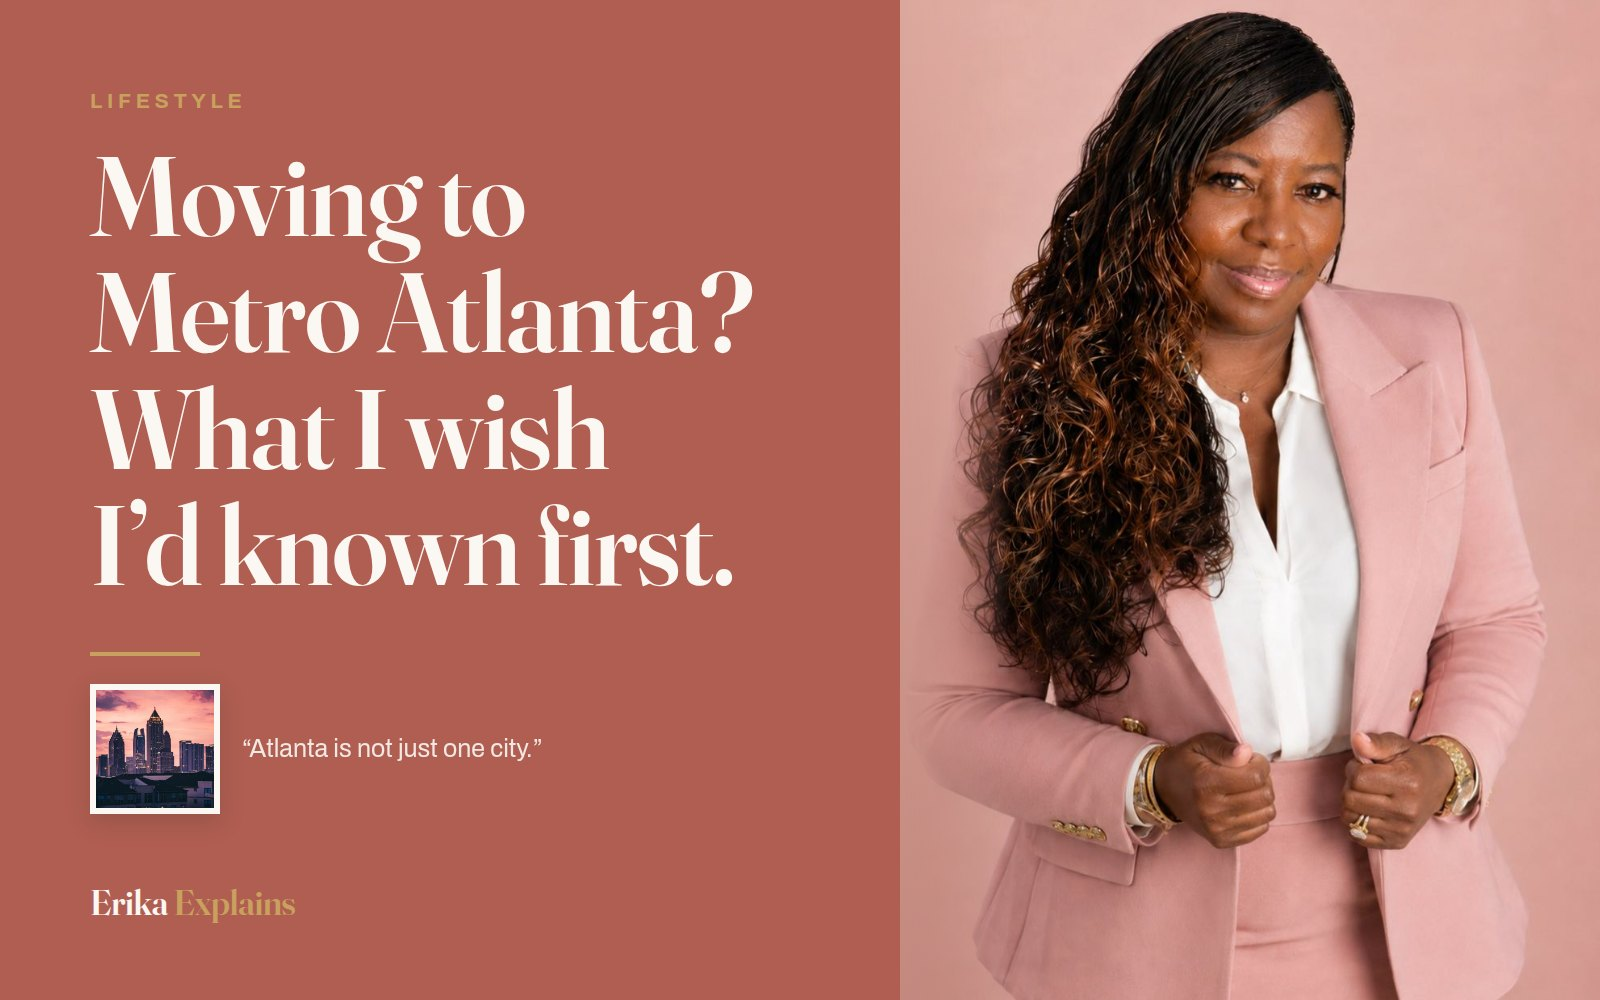
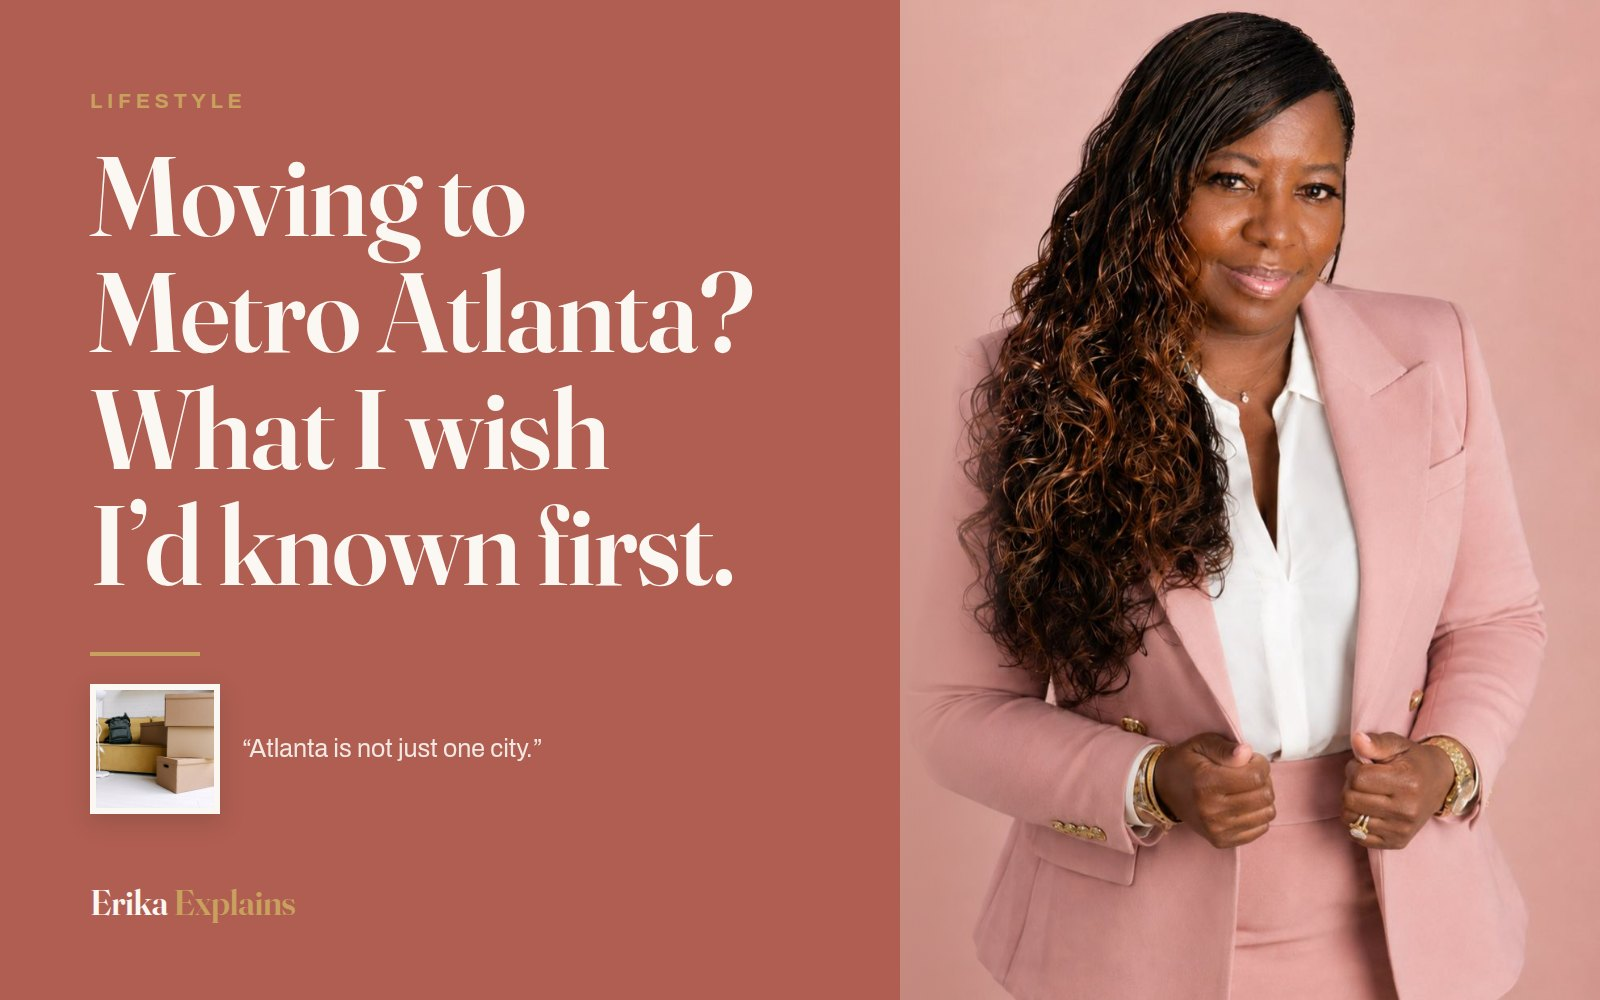
Give every article its own pictures; fail the check on any repeat
Four pictures were shared between articles (the signing photo four times, as body and
cover tile on two articles). Six new Pexels photos replace the repeats: a restaurant
kitchen and an empty commercial building for the lease article, keys for cash-is-king,
a Southern porch home and a mailbox for homestead, moving boxes for relocation. Four
covers re-rendered. check-article.mjs now fails if any picture is on two articles or a
cover tile repeats its own body picture. tools/stock-search.py makes the search one
command. CLAUDE.md step 4 no longer tells you to reuse library photos.

Claude-Session: https://claude.ai/code/session_014UEUWFVPFtasGLsNwikjqa

Changed region(s): [[0.0625, 0.682, 0.1562, 0.806]]

diff --git a/posts.php b/posts.php
@@ -41,7 +41,7 @@ return [
         'tags'           => ['commercial real estate', 'restaurant space', 'commercial lease', 'zoning', 'small business', 'Metro Atlanta'],
         'cover'          => 'assets/photos/17/leasing-a-restaurant-space-cover.jpg',
         'cover_alt'      => 'Erika K. Page beside the headline: Leasing a restaurant space? Fall in love with the deal, not the space.',
-        'cover_credit'   => 'Inset photo by <a href="https://www.pexels.com/@kampus" rel="nofollow noopener" target="_blank">Kampus Production</a> on <a href="https://www.pexels.com/" rel="nofollow noopener" target="_blank">Pexels</a>',
+        'cover_credit'   => 'Inset photo by <a href="https://www.pexels.com/@introspectivedsgn" rel="nofollow noopener" target="_blank">Erik Mclean</a> on <a href="https://www.pexels.com/" rel="nofollow noopener" target="_blank">Pexels</a>',
         'audio'          => '',
         'audio_note'     => 'A podcast episode on this topic, in Erika’s AI voice. The sources are listed at the end of the article.',
         'guide'          => '',
@@ -98,7 +98,7 @@ return [
 
 <p>Then look at the neighbors. One space we saw was three doors down from a Mexican restaurant, and in the time I waited for my client, I watched people coming in and out. That tells you people already come to that center for food &mdash; and for more than burgers and fries. Look at what is planned nearby, too; at one building in East Point, there was information posted about a redevelopment plan for the area.</p>
 
-[[img:assets/photos/17/a1-closing-table-signing.jpg|Signing paperwork at a table|Photo by <a href="https://www.pexels.com/@kampus" rel="nofollow noopener" target="_blank">Kampus Production</a> on <a href="https://www.pexels.com/" rel="nofollow noopener" target="_blank">Pexels</a>]]
+[[img:assets/photos/17/b5-restaurant-kitchen-hoods.jpg|A restaurant kitchen with the hoods, shelving and equipment already in place|Photo by <a href="https://www.pexels.com/@orlovamaria" rel="nofollow noopener" target="_blank">Maria Orlova</a> on <a href="https://www.pexels.com/" rel="nofollow noopener" target="_blank">Pexels</a>]]
 
 <h2>Cheap and affordable are not the same thing</h2>
 
@@ -171,7 +171,7 @@ HTML,
         'tags'           => ['relocating to Atlanta', 'moving to Georgia', 'Metro Atlanta', 'commute', 'school districts', 'new residents'],
         'cover'          => 'assets/photos/17/relocating-to-metro-atlanta-cover.jpg',
         'cover_alt'      => 'Erika K. Page beside the headline: Moving to Metro Atlanta? What I wish I’d known first.',
-        'cover_credit'   => 'Inset photo by <a href="https://www.pexels.com/@connorscottmcmanus/" rel="nofollow noopener" target="_blank">Connor Scott McManus</a> on <a href="https://www.pexels.com/" rel="nofollow noopener" target="_blank">Pexels</a>',
+        'cover_credit'   => 'Inset photo by <a href="https://www.pexels.com/@ivan-s" rel="nofollow noopener" target="_blank">Ivan S</a> on <a href="https://www.pexels.com/" rel="nofollow noopener" target="_blank">Pexels</a>',
         'audio'          => '',
         'audio_note'     => 'A podcast episode on this topic, in Erika’s AI voice. The sources are listed at the end of the article.',
         'guide'          => '',
@@ -291,7 +291,7 @@ HTML,
         'tags'           => ['homestead exemption', 'property taxes', 'HOME Act', 'HB 581', 'Georgia real estate', 'Metro Atlanta'],
         'cover'          => 'assets/photos/17/georgia-homestead-exemption-explained-cover.jpg',
         'cover_alt'      => 'Erika K. Page beside the headline: Georgia’s homestead exemption, explained.',
-        'cover_credit'   => 'Inset photo by <a href="https://www.pexels.com/@rdne" rel="nofollow noopener" target="_blank">RDNE Stock project</a> on <a href="https://www.pexels.com/" rel="nofollow noopener" target="_blank">Pexels</a>',
+        'cover_credit'   => 'Inset photo by <a href="https://www.pexels.com/@abstrakt-xxcellence-studios-987642" rel="nofollow noopener" target="_blank">Abstrakt Xxcellence Studios</a> on <a href="https://www.pexels.com/" rel="nofollow noopener" target="_blank">Pexels</a>',
         'audio'          => 'assets/audio/georgia-homestead-exemption-explained.mp3',
         'audio_note'     => 'A podcast episode on this topic, in Erika’s AI voice. The sources are listed at the end of the article.',
         'guide'          => '',
@@ -351,7 +351,7 @@ HTML,
 
 <p>And here is the good news: you usually only do this once. Once approved, most homestead exemptions renew automatically every year as long as you keep living in the home under the same ownership.</p>
 
-[[img:assets/photos/17/a2-suburban-home-for-sale.jpg|A suburban home with a for-sale sign in the front yard|Photo by <a href="https://pixabay.com/users/paulbr75-2938186/" rel="nofollow noopener" target="_blank">paulbr75</a> on <a href="https://pixabay.com/" rel="nofollow noopener" target="_blank">Pixabay</a>]]
+[[img:assets/photos/17/b8-southern-porch-home.jpg|A Southern bungalow with rocking chairs on the front porch|Photo by <a href="https://www.pexels.com/@curtis-adams-1694007" rel="nofollow noopener" target="_blank">Curtis Adams</a> on <a href="https://www.pexels.com/" rel="nofollow noopener" target="_blank">Pexels</a>]]
 
 <h2>The 2024 change: a cap on how fast your value can grow</h2>
 
@@ -427,7 +427,7 @@ HTML,
         'tags'           => ['cash offer', 'contingencies', 'buying a home', 'investors', 'Georgia real estate'],
         'cover'          => 'assets/photos/17/cash-is-king-if-you-really-mean-cash-cover.jpg',
         'cover_alt'      => 'Erika K. Page beside the headline: Cash is king, if you really mean cash.',
-        'cover_credit'   => 'Inset photo by <a href="https://www.pexels.com/@kampus" rel="nofollow noopener" target="_blank">Kampus Production</a> on <a href="https://www.pexels.com/" rel="nofollow noopener" target="_blank">Pexels</a>',
+        'cover_credit'   => 'Inset photo by <a href="https://www.pexels.com/@a-darmel" rel="nofollow noopener" target="_blank">Alena Darmel</a> on <a href="https://www.pexels.com/" rel="nofollow noopener" target="_blank">Pexels</a>',
         'audio'          => 'assets/audio/cash-is-king-if-you-really-mean-cash.mp3',
         'guide'          => '',
         'product'        => '',

diff --git a/tools/stock-search.py b/tools/stock-search.py
@@ -1,0 +1,44 @@
+"""Find stock photos on Pexels: search, save thumbnails, and make a numbered contact sheet.
+
+    PEXELS_KEY=... python3 -I tools/stock-search.py <scratch-dir> "<query>" [count]
+
+Then LOOK at <scratch-dir>/sheet.jpg and pick by number; results.json in the same folder
+has each photo's photographer, profile URL (for the credit) and original URL. Download
+the pick (append "?auto=compress&cs=tinysrgb&w=2400" to the original URL), crop to
+1600x1000 with ffmpeg (never upscale), register it in photos.php library 17 with its
+credit, then run php tools/build-images.php.
+
+Why it exists: for a week the blog reused the same few library photos across articles
+(one signing photo appeared four times on two articles) because there was no key and
+no quick way to look. Every article now gets its own pictures; check-article.mjs fails
+if any picture is on two articles. The key is the owner's: pass it in the environment,
+never write it to a file. Keep the scratch dir outside the repo.
+"""
+import json, os, ssl, subprocess, sys, urllib.parse, urllib.request
+out, q = sys.argv[1], sys.argv[2]; n = int(sys.argv[3]) if len(sys.argv) > 3 else 12
+os.makedirs(out, exist_ok=True)
+ctx = ssl.create_default_context(cafile="/root/.ccr/ca-bundle.crt")
+proxy = os.environ.get("HTTPS_PROXY") or os.environ.get("https_proxy")
+op = urllib.request.build_opener(urllib.request.ProxyHandler({"https": proxy} if proxy else {}), urllib.request.HTTPSHandler(context=ctx))
+req = urllib.request.Request("https://api.pexels.com/v1/search?" + urllib.parse.urlencode({"query": q, "per_page": n, "orientation": "landscape"}),
+                             headers={"Authorization": os.environ["PEXELS_KEY"], "User-Agent": "Mozilla/5.0"})
+data = json.load(op.open(req, timeout=60))
+rows = []
+for i, p in enumerate(data.get("photos", [])):
+    t = os.path.join(out, f"{i:02d}.jpg")
+    with open(t, "wb") as f:
+        f.write(op.open(urllib.request.Request(p["src"]["medium"], headers={"User-Agent": "Mozilla/5.0"}), timeout=60).read())
+    rows.append({"i": i, "id": p["id"], "w": p["width"], "h": p["height"], "by": p["photographer"], "by_url": p["photographer_url"],
+                 "page": p["url"], "alt": p.get("alt", ""), "orig": p["src"]["original"]})
+json.dump(rows, open(os.path.join(out, "results.json"), "w"), indent=1)
+for r in rows: print(f'{r["i"]:2d} {r["id"]} {r["w"]}x{r["h"]} {r["by"]} | {r["alt"][:90]}')
+# contact sheet: 4 columns, numbered
+files = [os.path.join(out, f'{r["i"]:02d}.jpg') for r in rows]
+args = []
+for f in files: args += ["-i", f]
+k = len(files); cols = 4; rows_n = (k + cols - 1) // cols
+fl = ";".join(f"[{j}:v]scale=360:240:force_original_aspect_ratio=increase,crop=360:240,drawtext=text='{j}':fontcolor=white:fontsize=36:box=1:boxcolor=black@0.6:x=8:y=8[v{j}]" for j in range(k))
+layout = "|".join(f"{(j%cols)*360}_{(j//cols)*240}" for j in range(k))
+fl += ";" + "".join(f"[v{j}]" for j in range(k)) + f"xstack=inputs={k}:layout={layout}:fill=black[out]"
+subprocess.run(["ffmpeg", "-v", "error", "-y", *args, "-filter_complex", fl, "-map", "[out]", "-q:v", "4", os.path.join(out, "sheet.jpg")], check=True)
+print("sheet:", os.path.join(out, "sheet.jpg"))

diff --git a/photos.php b/photos.php
@@ -223,6 +223,12 @@ return [
                 ['r' => 'B2', 'f' => 'assets/photos/17/b2-inspection-checklist.jpg', 'label' => 'Inspection checklist on a clipboard', 'note' => 'stock - RDNE Stock project / Pexels', 'pos' => '50 50'],
                 ['r' => 'B3', 'f' => 'assets/photos/17/b3-home-for-sale-sign.jpg', 'label' => 'Home for sale sign on a lawn', 'note' => 'stock - Thirdman / Pexels', 'pos' => '50 50'],
                 ['r' => 'B4', 'f' => 'assets/photos/17/b4-atlanta-skyline-dusk.jpg', 'label' => 'Midtown Atlanta skyline at dusk (1.6 crop)', 'note' => 'stock - Connor Scott McManus / Pexels', 'pos' => '50 50'],
+                ['r' => 'B5', 'f' => 'assets/photos/17/b5-restaurant-kitchen-hoods.jpg', 'label' => 'Restaurant kitchen with hoods and equipment in place', 'note' => 'stock - Maria Orlova / Pexels', 'pos' => '50 50'],
+                ['r' => 'B6', 'f' => 'assets/photos/17/b6-commercial-building-parking.jpg', 'label' => 'Empty commercial building with its own parking lot', 'note' => 'stock - Erik Mclean / Pexels', 'pos' => '50 50'],
+                ['r' => 'B7', 'f' => 'assets/photos/17/b7-house-keys-handover.jpg', 'label' => 'House keys handed from one person to another', 'note' => 'stock - Alena Darmel / Pexels', 'pos' => '50 50'],
+                ['r' => 'B8', 'f' => 'assets/photos/17/b8-southern-porch-home.jpg', 'label' => 'Southern bungalow with rocking chairs on the porch', 'note' => 'stock - Curtis Adams / Pexels', 'pos' => '50 50'],
+                ['r' => 'B9', 'f' => 'assets/photos/17/b9-mailbox-flag-up.jpg', 'label' => 'US mailbox with the flag up', 'note' => 'stock - Abstrakt Xxcellence Studios / Pexels', 'pos' => '50 50'],
+                ['r' => 'B10', 'f' => 'assets/photos/17/b10-moving-boxes-living-room.jpg', 'label' => 'Moving boxes stacked in a living room', 'note' => 'stock - Ivan S / Pexels', 'pos' => '50 50'],
                 ['r' => 'C1', 'f' => 'assets/photos/17/owning-vs-investing-in-real-estate-cover.jpg', 'label' => 'Cover: owning vs investing (Bold template)', 'note' => 'rendered by tools/covers/blog.js', 'pos' => '50 50'],
                 ['r' => 'C2', 'f' => 'assets/photos/17/closing-costs-in-georgia-explained-cover.jpg', 'label' => 'Cover: closing costs in Georgia (Bold template)', 'note' => 'rendered by tools/covers/blog.js', 'pos' => '50 50'],
                 ['r' => 'C3', 'f' => 'assets/photos/17/know-your-house-before-you-list-cover.jpg', 'label' => 'Cover: know your house before you list (Bold template)', 'note' => 'rendered by tools/covers/blog.js', 'pos' => '50 50'],

diff --git a/CLAUDE.md b/CLAUDE.md
@@ -141,10 +141,15 @@ Every article is narrated in Erika's cloned voice and goes out as an episode of 
      decoded — keep those plain.
    - A short source makes a short article: explain her points, don't pad them. The
      cash-is-king article (2 Oct) came from ~320 words of hers and runs ~900.
-4. **Pictures** — check the library first: `photos.php` library `17` has credited
-   photos no article uses any more (the closing-table photo was free again after the
-   Bold covers, and now illustrates the cash article). New ones: Pexels/Pixabay, cropped to **1600×1000 (1.6)** like every editorial
-   picture, ~150–260 KB, credited, registered in `photos.php` library `17`, then
+4. **Pictures — every article gets its own.** **Never reuse a picture another article
+   uses**, whether as a body picture or as a cover tile, and don't repeat the article's
+   own body picture as its cover tile. The owner called the old habit "soooo lazy"
+   (7 Oct 2026): one signing photo was on two articles four times, and two more were
+   shared. It happened because this step said to reuse library photos, and there was no
+   Pexels key. `check-article.mjs` now fails on any repeat. Find fresh ones with
+   `PEXELS_KEY=… python3 -I tools/stock-search.py <scratch-dir> "<query>"`, look at
+   the numbered `sheet.jpg`, pick one that fits the topic, crop it to **1600×1000 (1.6)**
+   like every editorial picture, ~150–260 KB, credited, registered in `photos.php` library `17`, then
    `php tools/build-images.php`. Look at every candidate: stock is often recognisably
    foreign (Turkish signage on one rejected shot). Never upscale.
 5. **Cover** — the house template is **Bold**. Add the article to
@@ -273,6 +278,7 @@ check there and a row here.
 | Every outside link in the article answers (2xx/3xx; 403 = WARN, check by hand) | a researched article is only as good as its references; Fulton's assessor site answers 403 to non-browsers, so it's verified by search instead |
 | The line under the audio player matches the post (`audio_note`, or the "read aloud" default) | it said "same words, read aloud" for any audio; untrue for a podcast episode |
 | Admin round-trip keeps `audio_note` too | proven 5 Oct 2026 on a throwaway copy with a test login (see SESSION-LOG) |
+| **No picture on two articles**; no cover tile repeats its own article's body picture (whole blog, every run) | the same signing photo was on two articles four times, and two more were shared — the owner called it lazy (7 Oct 2026) |
 | Short link answers **301** to the article (with `#guide` only when there is a guide) | a 404 after an admin save; a `#guide` anchor on an article with no guide |
 | **Live**: byte-compare every upload; confirm pages by completeness (`</html>`, >150 KB), not status | see the host's holding page below |
 
@@ -340,8 +346,9 @@ shipped article in `posts.php`, check whether the admin has saved one (the
 - **For Erika to review:** the relocation article (6 Oct). Her four points are quoted
   from her video; the rest is researched and in her voice.
 
-- **Rotate the ElevenLabs key and the cPanel API token**: both were pasted into chat on
-  2 Oct 2026 and were still active on 5 Oct. Ask the owner for the new ones next session.
+- **Rotate the ElevenLabs key and the cPanel API token** (pasted into chat on 2 Oct
+  2026, still active on 7 Oct), **and the Pexels and Pixabay keys** (pasted 7 Oct). Ask
+  the owner for the new ones next session.
 - **For Erika to review:** the homestead article and its podcast script (5 Oct). They
   are researched, so they're in her voice but not her words. Also re-check its starred
   facts (★ in the research notes) before 1 April 2027, the filing date it points people

diff --git a/SESSION-LOG.md b/SESSION-LOG.md
@@ -7,6 +7,45 @@ history behind it. See "The loop" in `CLAUDE.md`.
 
 ---
 
+## 2026-10-07 (later) — Every article gets its own pictures
+
+**Asked.** "Why are you using the same picture in every blog, it's soooo lazy." The owner
+sent Pexels and Pixabay keys.
+
+**Found.** Four pictures were shared:
+- the closing-table signing photo was the body picture **and** the cover tile on both the cash-is-king and restaurant-lease articles (4 uses);
+- the suburban home for sale was in closing costs and homestead;
+- the loan paperwork was in closing costs and on the homestead tile;
+- the skyline was both the relocation body picture and its tile.
+
+The cause: `CLAUDE.md` step 4 said to reuse "free" library photos, and there was no stock key.
+
+**Done**
+- **Six new Pexels photos**, each looked at on a contact sheet, cropped to 1600×1000 (no upscaling, all from 2400 px originals), credited and registered as 17/B5–B10:
+  - restaurant kitchen with hoods (Maria Orlova) — restaurant body;
+  - empty commercial building with parking (Erik Mclean) — restaurant tile;
+  - keys handover (Alena Darmel) — cash tile;
+  - Southern porch home (Curtis Adams) — homestead body;
+  - US mailbox, flag up (Abstrakt Xxcellence Studios) — homestead tile;
+  - moving boxes (Ivan S) — relocation tile.
+- **Four covers re-rendered and looked at;** their `cover_credit` lines updated.
+- **`check-article.mjs`** has a new blog-wide check: no picture on two articles, and no tile repeating its own body picture.
+- **`tools/stock-search.py`** (new): Pexels search with a numbered contact sheet.
+- **`CLAUDE.md`** step 4 is rewritten; checks-table row added; the new keys added to the rotate list.
+
+**Passed**
+- The new check FAILS on the old `posts.php` and `blog.json` (it lists exactly the repeats above) and PASSES on the new ones.
+- `check-article.mjs --all` passes, 7 articles.
+
+**Failed, and what was done**
+- **Porch photo too large.** It came out at 458 KB; recompressed to 279 KB.
+
+**Open**
+- The audio for two episodes still waits on the voice.
+- Rotate all keys.
+
+---
+
 ## 2026-10-07 — Researched article: leasing a restaurant space (audio still blocked)
 
 **Asked.** "Write a new blog for today please!" The owner picked the restaurant-lease
